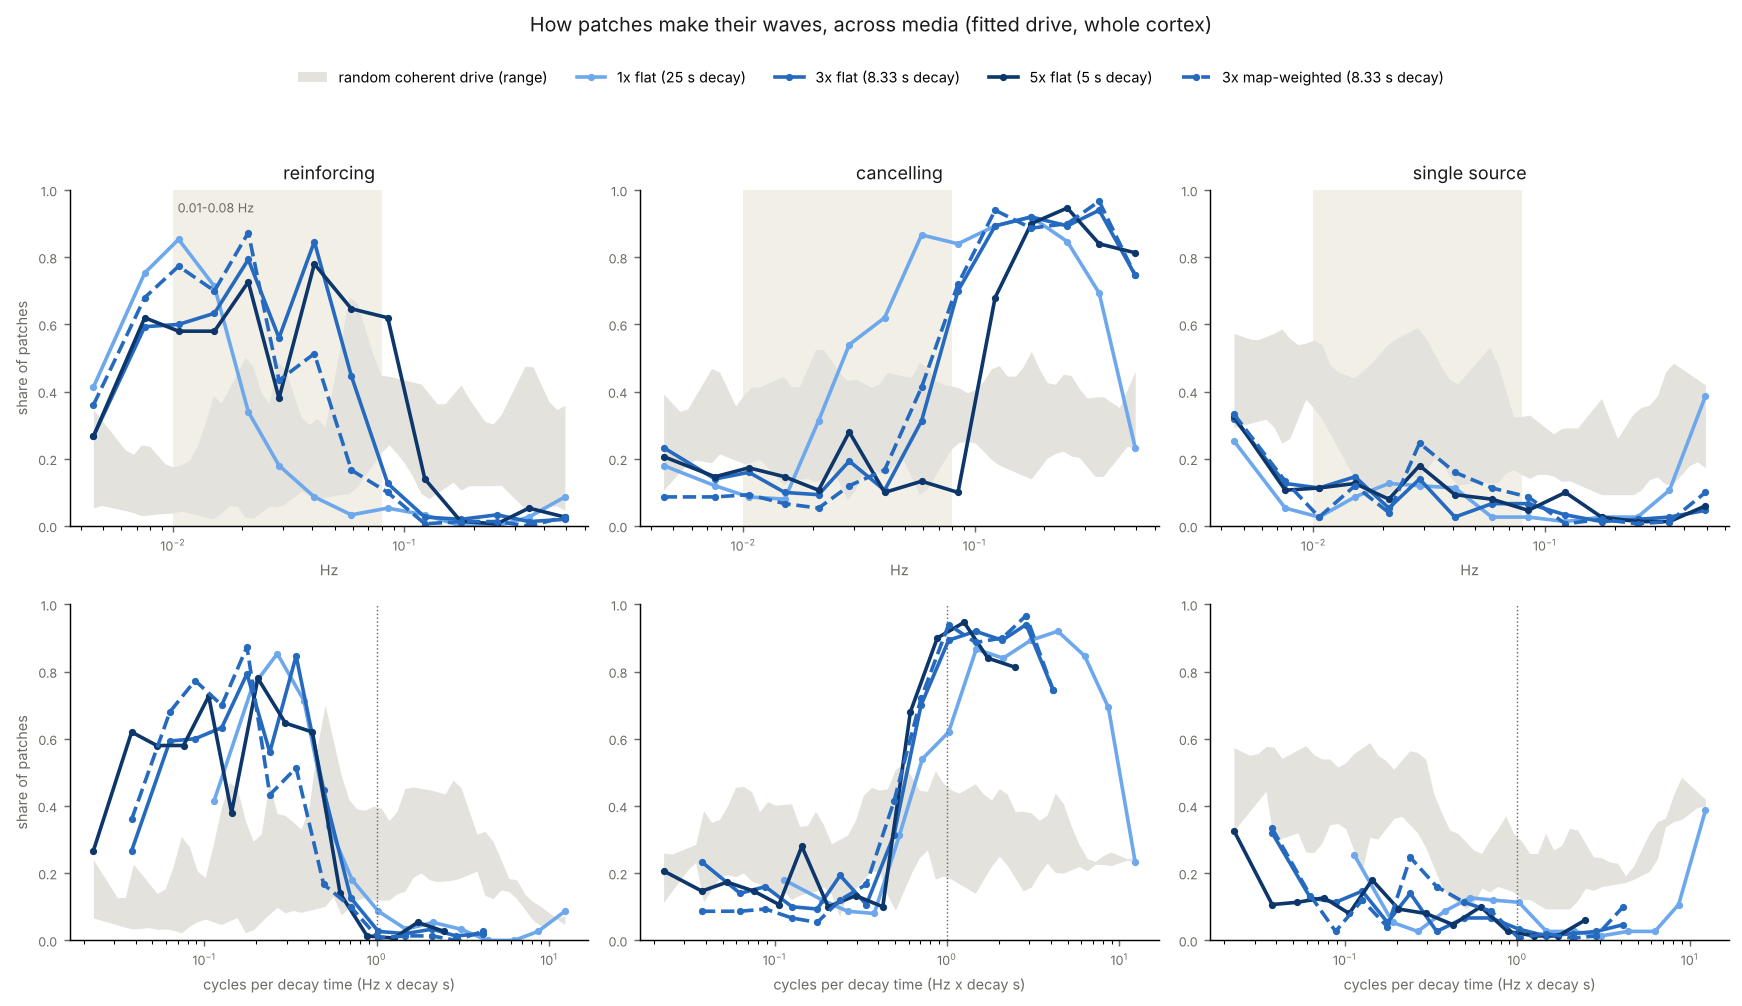
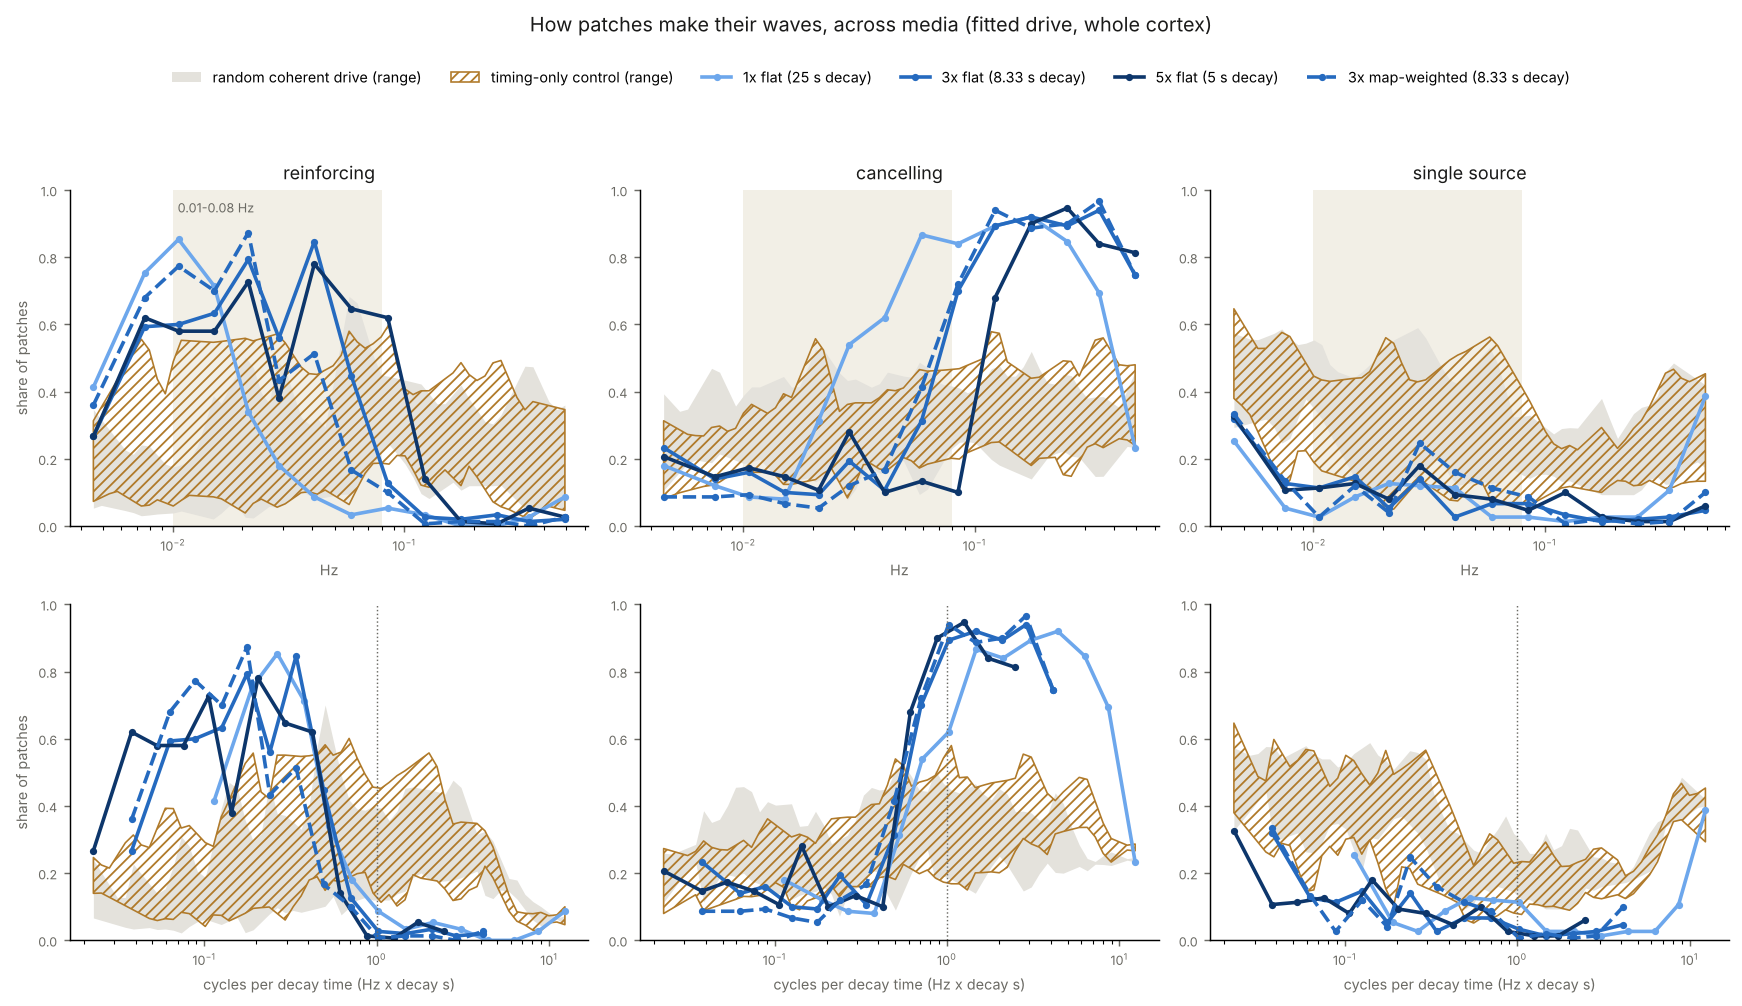
Findings: the timing-only control
Keeping every input's fitted loudness and coherence magnitude but not its lags
removes the slow-reinforcing / fast-cancelling contrast and the rarity of
single-source patches in all four media, just as the random coherent drive
does. The fitted timing between inputs is what supplies them.

Claude-Session: https://claude.ai/code/session_01Tg31DoGxV2kMzEb2BdWGBF

diff --git a/docs/waves-findings.md b/docs/waves-findings.md
@@ -151,8 +151,13 @@ reasonable alternative reading. These weightings are one view, not the right one
 - *random*: the fitted eigenvalues at every frequency with Haar-random eigenvectors.
   Coherent like the fit, with timing patterns never fitted to anything. Three seeds.
 
-Random eigenvectors also randomise how loud each input is, not only its timing. A
-timing-only control that keeps each input's fitted loudness has not been run.
+- *timing*: timing alone. Each input keeps its fitted power and the size of its coherence
+  with every other input. At each frequency each input is given its own random phase,
+  S_kl → e^{iφ_k} S_kl e^{−iφ_l}. The eigenvalues are therefore also the fitted ones. Only the
+  lags between inputs differ from the fit. Three seeds.
+
+The random control also reassigns how loud each input is, as well as its timing. The
+timing control isolates timing.
 
 ---
 
@@ -306,13 +311,22 @@ Share by category, raw field, all patches:
 | fitted | 5% | 5% | 76% |
 | independent inputs | 50% | 0% | 20% |
 | random coherent (3 seeds) | 19–24% | 31–41% | 16–31% |
+| timing only (3 seeds) | 15–22% | 33–42% | 23–27% |
 
-- **Specific to the fit:**
+- **Specific to the fit, and to its timing:**
   - fast cancellation;
   - the rarity of single-source patches. Independent inputs give 50–57% single source
-    across the readings, random coherent drive 18–31%.
-- **Not clearly specific:** the slow reinforcing picture. Random coherent drive is already
-  19–49% reinforcing, depending on seed and reading.
+    across the readings, random coherent drive 18–31%, timing only 14–31%.
+
+  The timing control keeps every input's fitted loudness and every coherence magnitude, and
+  loses both features. So they come from the fitted lags between inputs, not from which
+  inputs are loud or which are coherent.
+- **Specific per frequency, but not in the BOLD-weighted totals:** the slow reinforcing
+  picture. At 0.02–0.04 Hz the fit is 79–85% reinforcing, against 17–25% for timing only
+  (see the speed series below). Summed over frequencies, though, both controls also reach
+  25–53% reinforcing under the HRF, depending on seed. Their slow bins are not reinforcing.
+  Instead their reinforcing share is spread over all frequencies and weighted by a different
+  distribution of power.
 - **Looked fit-specific in the flat medium:** more cancellation transmodally than in
   sensorimotor cortex under the HRF. It does not survive a change of medium (next section).
 
@@ -374,16 +388,22 @@ across media. Measured in **cycles per decay time** (Hz × decay s), the media l
 ![Categories across media](figures/interplay_media.png)
 
 Top row in Hz (shaded: 0.01–0.08 Hz), bottom row in cycles per decay time (dotted: one
-cycle). The grey band is the range of the random coherent drive over all media and seeds.
+cycle). The grey band is the range of the random coherent drive, and the hatched band the
+range of the timing control, each over all media and seeds.
 
 The crossover is where the reinforcing and cancelling shares are equal, interpolated in
 log frequency (`interplay.py media`).
 
-The random coherent drive shows no switch. It stays at roughly 10–35% reinforcing and
-20–40% cancelling at every frequency, in every medium. So:
+Neither control shows the switch. The random coherent drive stays at roughly 10–35%
+reinforcing and 20–40% cancelling at every frequency, in every medium. The timing control
+keeps the fitted loudness and coherence magnitudes but not the lags, and does the same.
+It ranges over 6–46% reinforcing and 15–44% cancelling, with no consistent ordering. Where
+its two shares happen to cross first varies from seed to seed (0.03–0.85 cycles per decay),
+so it is noise rather than a switch. So:
 
 - the medium's decay time sets *where* the switch is;
-- the fitted drive supplies the strong contrast either side of it.
+- the fitted *timing* between inputs supplies the strong contrast either side of it.
+  With the same loudness and coherence magnitudes but other lags, the contrast is gone.
 
 Below about half a cycle per decay, the fitted inputs add up. Above it, the waves at most
 patches are what is left after the inputs largely cancel.
@@ -429,8 +449,8 @@ Fit alone does not decide between the media: 1x scores 0.724, 3x 0.756 and 5x 0.
   the 0.06–0.12 Hz band over 1154 s is too few for 64 pairwise features. A longer
   realisation, or fewer inputs per patch, would be needed before reading anything into the
   timing-vs-loudness R².
-- **Only three random-control seeds were run**, and the random control changes loudness as
-  well as timing.
+- **Only three seeds were run for each control.** The per-seed spread is wide, which
+  is why ranges are quoted rather than means.
 - **Media were compared at 150 evaluations.** Longer solves concentrate the drive, and
   whether the half-cycle-per-decay switch holds in a more converged solve is untested.
 - **Why half a cycle per decay?** Not yet explained. A first guess: below it, the medium's
@@ -462,6 +482,7 @@ python analysis/interplay.py bold --tag $TAG                       # 14 bins, 4 
 python analysis/interplay.py combine --tag $TAG                    # 5 bins, maps
 python analysis/interplay.py bold --tag $TAG --drive independent
 python analysis/interplay.py bold --tag $TAG --drive random --seed 0   # and 1, 2
+python analysis/interplay.py bold --tag $TAG --drive timing --seed 0   # and 1, 2
 python viz/render_steering.py --tag $TAG --site s1 --hz 0.0848     # or --site frontal, other --hz
 
 python analysis/interplay.py media                                 # across media
